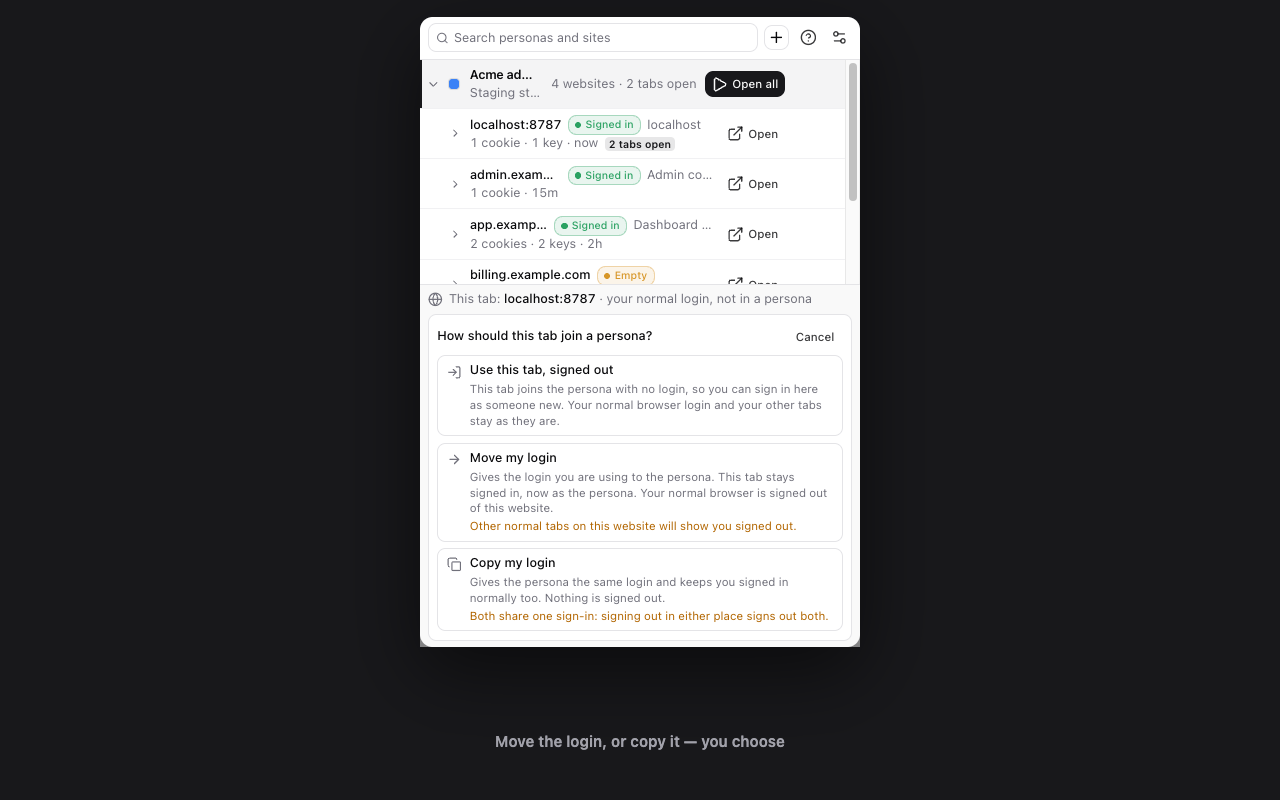
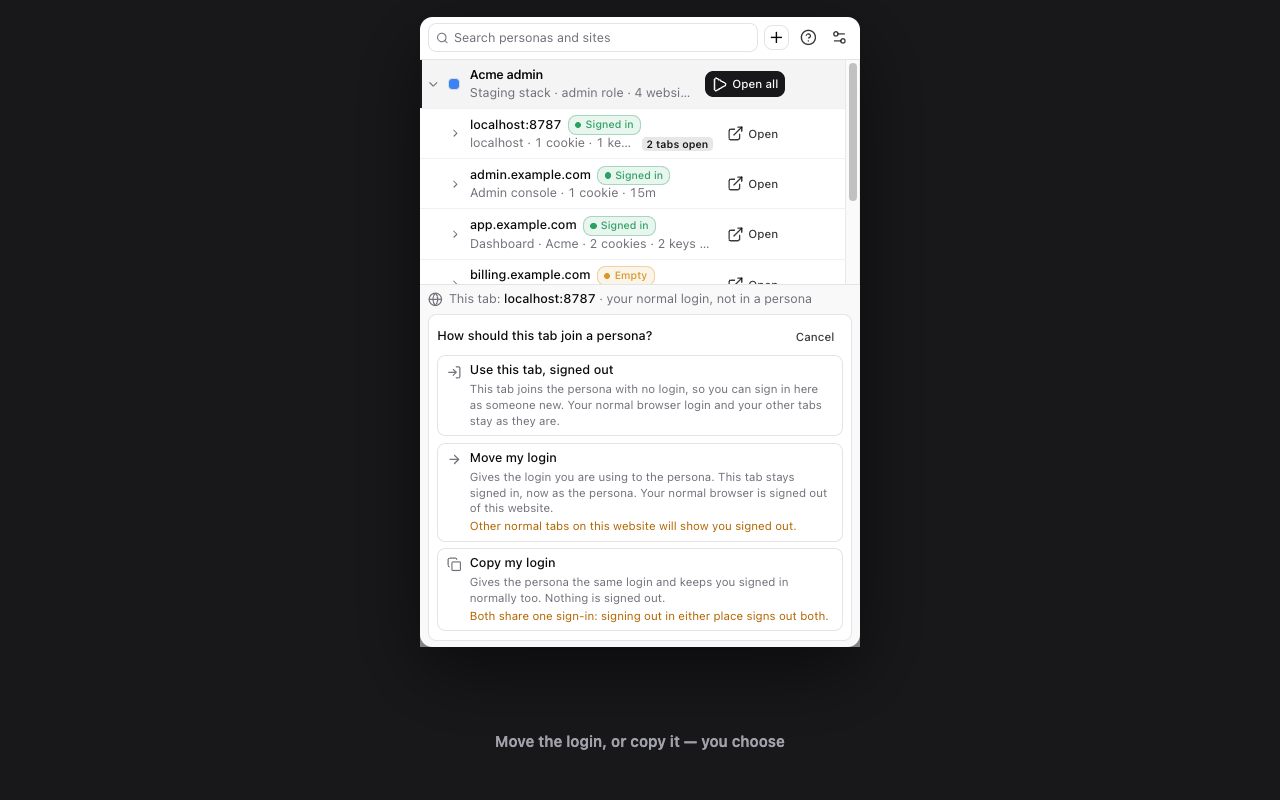
docs: fold today's changes into 0.2.0, refresh screenshots
Move the Unreleased CHANGELOG entries into 0.2.0, which was resubmitted to the Chrome Web Store with them; regenerate the README screenshots from the current build; record the Store release procedure in lore.

Changed region(s): [[0.375, 0.1562, 0.5625, 0.3125], [0.4062, 0.0938, 0.5312, 0.125]]

diff --git a/CHANGELOG.md b/CHANGELOG.md
@@ -6,22 +6,14 @@ The format is based on [Keep a Changelog](https://keepachangelog.com/en/1.1.0/),
 
 ## [Unreleased]
 
+## [0.2.0] - 2026-10-04
+
 ### Added
 
 - **The in-page persona badge can be moved, shrunk and switched off.** It now sits bottom-left by default (top-right covered apps' header buttons), a click shrinks it to a dot and back, and Options → Settings has "Show the persona badge on pages" and a corner picker. Changes apply to open tabs immediately.
 - **Drag the badge anywhere.** The spot is remembered per site (apps put their buttons in different places) and survives reloads; double-click puts it back in the corner, and Options can reset every site at once.
 - **Pick each persona's colour** from nine swatches — one per Chrome tab-group colour, so the badge, the popup dot and the tab group always match. Open tabs and their tab group recolour immediately.
 - **Page titles carry the persona's colour** as a heart in front of the title (`💙 Dashboard`), kept in place when the app changes its title; switchable in Options.
-
-### Fixed
-
-- A persona's description, and a saved login's page title, are cut off to fit the popup; hovering (or tabbing to) a cut-off line now opens a card with the whole text. Lines that fit stay quiet.
-- Session rows show the full site address (`ifpghub.localhost:3000`) on its own line; the page title moved to the line below, where it is the part that gets cut off. Persona names likewise get the whole first line, with the site and tab counts underneath.
-
-## [0.2.0] - 2026-10-04
-
-### Added
-
 - **IndexedDB kept per persona.** The page shim translates database names to `<session>::<name>` (`open`, `deleteDatabase`, `databases()`, `IDBDatabase.name`), so offline-first apps keep separate data per persona. Databases opened inside a worker stay shared and the badge reports it.
 - **A popup that explains itself.** Every button shows what it will do and what it does to your normal browser login, on hover or keyboard focus. "Add to persona" asks how (signed out, move or copy) before which persona, footer actions carry words instead of bare icons, and a three-step guide appears until the first persona exists.
 - **Styled confirmations** before deleting a persona, forgetting a login or replacing a saved login, and a confirmation line after actions that are otherwise silent.
@@ -29,6 +21,8 @@ The format is based on [Keep a Changelog](https://keepachangelog.com/en/1.1.0/),
 
 ### Fixed
 
+- A persona's description, and a saved login's page title, are cut off to fit the popup; hovering (or tabbing to) a cut-off line now opens a card with the whole text. Lines that fit stay quiet.
+- Session rows show the full site address (`ifpghub.localhost:3000`) on its own line; the page title moved to the line below, where it is the part that gets cut off. Persona names likewise get the whole first line, with the site and tab counts underneath.
 - Opening a persona on an app that redirects signed-out users (AuthKit, OAuth) no longer lands on its login page. Cookie rules were computed from the URL the tab was on, which is `about:blank` when it is bound, so the first request left without the cookie.
 - A persona's cookies are no longer sent to every host its page loads. Rules are now scoped per host and cookie path, and hosts the persona holds nothing for receive no cookie at all.
 - "Add website" now adds the address you typed; the popup used the current tab's site instead and the library page did nothing.
